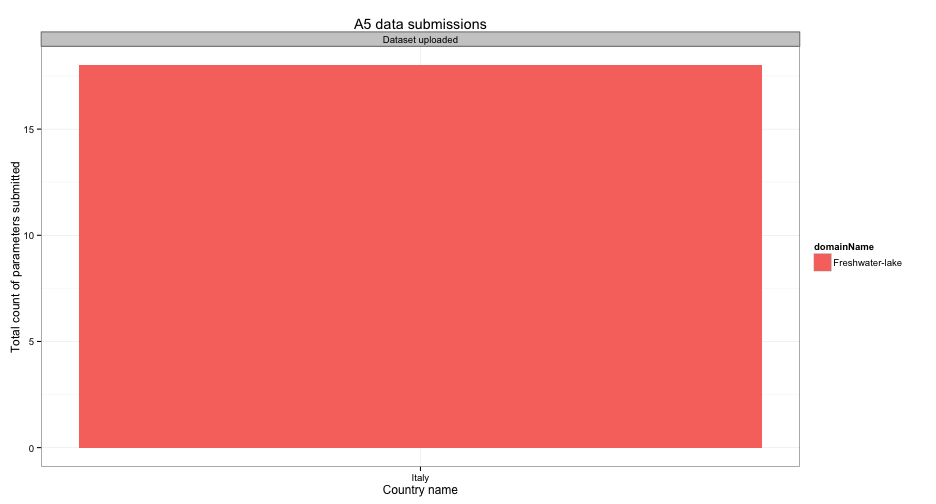
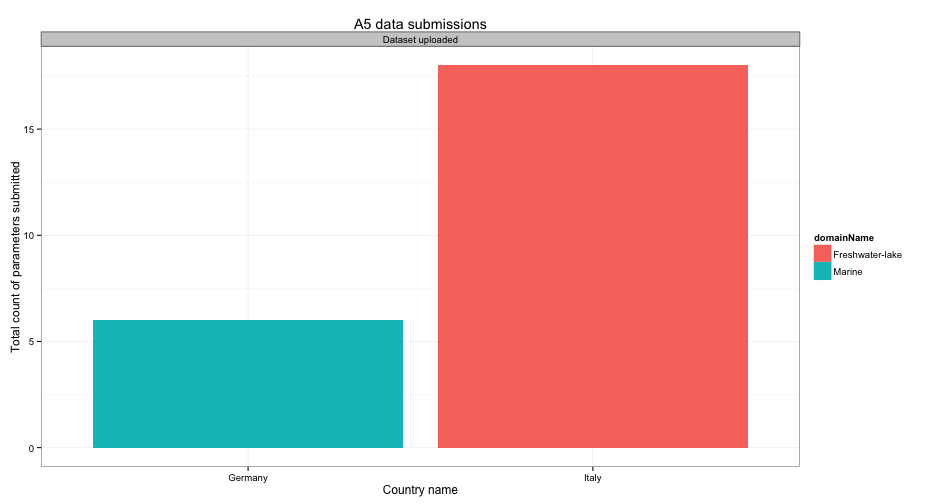
publishing deck

diff --git a/index.html b/index.html
@@ -48,21 +48,21 @@
   </hgroup>
   <article>
     <ul>
-<li>Last updated <code>2013-02-21</code></li>
+<li>Last updated <code>2013-02-23</code></li>
 <li>Deadline for data submission: <code>2013-03-08</code></li>
-<li>Days to deadline: <code>15</code></li>
+<li>Days to deadline: <code>13</code></li>
 <li>Total number of sites sampled in 2012: <code>60</code>; stations: <code>63</code></li>
 </ul>
 
 <!-- html table generated in R 2.15.2 by xtable 1.7-0 package -->
 
-<!-- Thu Feb 21 18:18:12 2013 -->
+<!-- Sat Feb 23 08:44:32 2013 -->
 
 <TABLE border=1>
 <TR> <TH>  </TH> <TH> No. uploaded </TH> <TH> No. metadated </TH> <TH> Total no. </TH> <TH> Upload ratio </TH> <TH> Metadata ratio </TH>  </TR>
-  <TR> <TD align="right"> Year2012 </TD> <TD align="right">  18 </TD> <TD align="right">   0 </TD> <TD align="right"> 1972 </TD> <TD align="right"> 0.01 </TD> <TD align="right"> 0.00 </TD> </TR>
+  <TR> <TD align="right"> Year2012 </TD> <TD align="right">  24 </TD> <TD align="right">   0 </TD> <TD align="right"> 1976 </TD> <TD align="right"> 0.01 </TD> <TD align="right"> 0.00 </TD> </TR>
   <TR> <TD align="right"> Year2011 </TD> <TD align="right">   0 </TD> <TD align="right">   0 </TD> <TD align="right"> 242 </TD> <TD align="right"> 0.00 </TD> <TD align="right"> 0.00 </TD> </TR>
-  <TR> <TD align="right"> Sum </TD> <TD align="right">  18 </TD> <TD align="right">   0 </TD> <TD align="right"> 2214 </TD> <TD align="right"> 0.01 </TD> <TD align="right"> 0.00 </TD> </TR>
+  <TR> <TD align="right"> Sum </TD> <TD align="right">  24 </TD> <TD align="right">   0 </TD> <TD align="right"> 2218 </TD> <TD align="right"> 0.01 </TD> <TD align="right"> 0.00 </TD> </TR>
    </TABLE>
 
   </article>
@@ -87,7 +87,7 @@
   <article>
     <!-- MotionChart generated in R 2.15.2 by googleVis 0.3.3 package -->
 
-<!-- Thu Feb 21 18:18:12 2013 -->
+<!-- Sat Feb 23 08:44:32 2013 -->
 
 <!-- jsHeader -->
 
@@ -97,12 +97,22 @@
 <script type="text/javascript">
  
 // jsData 
-function gvisDataMotionChartID358b1eb2ac8f ()
+function gvisDataMotionChartID2382ced80e6 ()
 {
   var data = new google.visualization.DataTable();
   var datajson =
 [
  [
+ "SI000315TMP",
+new Date(2013,1,23),
+0.375,
+6,
+"Germany",
+16,
+"uploadedDate",
+"Marine" 
+],
+[
  "SI001231-Cedrino",
 new Date(2013,1,21),
 0.75,
@@ -136,14 +146,14 @@ return(data);
 }
  
 // jsDrawChart
-function drawChartMotionChartID358b1eb2ac8f() {
-  var data = gvisDataMotionChartID358b1eb2ac8f();
+function drawChartMotionChartID2382ced80e6() {
+  var data = gvisDataMotionChartID2382ced80e6();
   var options = {};
 options["width"] =    600;
 options["height"] =    500;
 
      var chart = new google.visualization.MotionChart(
-       document.getElementById('MotionChartID358b1eb2ac8f')
+       document.getElementById('MotionChartID2382ced80e6')
      );
      chart.draw(data,options);
     
@@ -152,14 +162,14 @@ options["height"] =    500;
   
  
 // jsDisplayChart 
-function displayChartMotionChartID358b1eb2ac8f()
+function displayChartMotionChartID2382ced80e6()
 {
   google.load("visualization", "1", { packages:["motionchart"] }); 
-  google.setOnLoadCallback(drawChartMotionChartID358b1eb2ac8f);
+  google.setOnLoadCallback(drawChartMotionChartID2382ced80e6);
 }
  
 // jsChart 
-displayChartMotionChartID358b1eb2ac8f()
+displayChartMotionChartID2382ced80e6()
  
 <!-- jsFooter -->  
 //-->
@@ -168,7 +178,7 @@ displayChartMotionChartID358b1eb2ac8f()
 
 <!-- divChart -->
 
-<div id="MotionChartID358b1eb2ac8f"
+<div id="MotionChartID2382ced80e6"
   style="width: 600px; height: 500px;">
 </div>
 

diff --git a/index.md b/index.md
@@ -26,19 +26,19 @@ github:
 
 ## State of uploading process
 
-* Last updated ``2013-02-21``
+* Last updated ``2013-02-23``
 * Deadline for data submission: `2013-03-08`
-* Days to deadline: ``15``
+* Days to deadline: ``13``
 * Total number of sites sampled in 2012: ``60``; stations: ``63``
 
 
 <!-- html table generated in R 2.15.2 by xtable 1.7-0 package -->
-<!-- Thu Feb 21 18:18:12 2013 -->
+<!-- Sat Feb 23 08:44:32 2013 -->
 <TABLE border=1>
 <TR> <TH>  </TH> <TH> No. uploaded </TH> <TH> No. metadated </TH> <TH> Total no. </TH> <TH> Upload ratio </TH> <TH> Metadata ratio </TH>  </TR>
-  <TR> <TD align="right"> Year2012 </TD> <TD align="right">  18 </TD> <TD align="right">   0 </TD> <TD align="right"> 1972 </TD> <TD align="right"> 0.01 </TD> <TD align="right"> 0.00 </TD> </TR>
+  <TR> <TD align="right"> Year2012 </TD> <TD align="right">  24 </TD> <TD align="right">   0 </TD> <TD align="right"> 1976 </TD> <TD align="right"> 0.01 </TD> <TD align="right"> 0.00 </TD> </TR>
   <TR> <TD align="right"> Year2011 </TD> <TD align="right">   0 </TD> <TD align="right">   0 </TD> <TD align="right"> 242 </TD> <TD align="right"> 0.00 </TD> <TD align="right"> 0.00 </TD> </TR>
-  <TR> <TD align="right"> Sum </TD> <TD align="right">  18 </TD> <TD align="right">   0 </TD> <TD align="right"> 2214 </TD> <TD align="right"> 0.01 </TD> <TD align="right"> 0.00 </TD> </TR>
+  <TR> <TD align="right"> Sum </TD> <TD align="right">  24 </TD> <TD align="right">   0 </TD> <TD align="right"> 2218 </TD> <TD align="right"> 0.01 </TD> <TD align="right"> 0.00 </TD> </TR>
    </TABLE>
 
 
@@ -58,7 +58,7 @@ github:
  
 
 <!-- MotionChart generated in R 2.15.2 by googleVis 0.3.3 package -->
-<!-- Thu Feb 21 18:18:12 2013 -->
+<!-- Sat Feb 23 08:44:32 2013 -->
 
 
 <!-- jsHeader -->
@@ -67,12 +67,22 @@ github:
 <script type="text/javascript">
  
 // jsData 
-function gvisDataMotionChartID358b1eb2ac8f ()
+function gvisDataMotionChartID2382ced80e6 ()
 {
   var data = new google.visualization.DataTable();
   var datajson =
 [
  [
+ "SI000315TMP",
+new Date(2013,1,23),
+0.375,
+6,
+"Germany",
+16,
+"uploadedDate",
+"Marine" 
+],
+[
  "SI001231-Cedrino",
 new Date(2013,1,21),
 0.75,
@@ -106,14 +116,14 @@ return(data);
 }
  
 // jsDrawChart
-function drawChartMotionChartID358b1eb2ac8f() {
-  var data = gvisDataMotionChartID358b1eb2ac8f();
+function drawChartMotionChartID2382ced80e6() {
+  var data = gvisDataMotionChartID2382ced80e6();
   var options = {};
 options["width"] =    600;
 options["height"] =    500;
 
      var chart = new google.visualization.MotionChart(
-       document.getElementById('MotionChartID358b1eb2ac8f')
+       document.getElementById('MotionChartID2382ced80e6')
      );
      chart.draw(data,options);
     
@@ -122,14 +132,14 @@ options["height"] =    500;
   
  
 // jsDisplayChart 
-function displayChartMotionChartID358b1eb2ac8f()
+function displayChartMotionChartID2382ced80e6()
 {
   google.load("visualization", "1", { packages:["motionchart"] }); 
-  google.setOnLoadCallback(drawChartMotionChartID358b1eb2ac8f);
+  google.setOnLoadCallback(drawChartMotionChartID2382ced80e6);
 }
  
 // jsChart 
-displayChartMotionChartID358b1eb2ac8f()
+displayChartMotionChartID2382ced80e6()
  
 <!-- jsFooter -->  
 //-->
@@ -137,7 +147,7 @@ displayChartMotionChartID358b1eb2ac8f()
  
 <!-- divChart -->
   
-<div id="MotionChartID358b1eb2ac8f"
+<div id="MotionChartID2382ced80e6"
   style="width: 600px; height: 500px;">
 </div>
 
